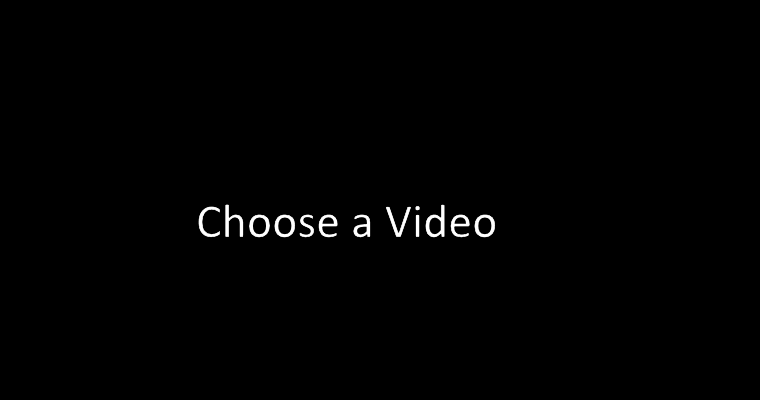
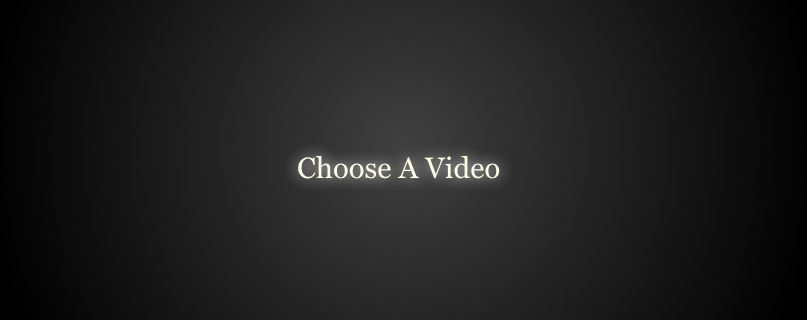
updated main website to have cool flashy thumbnails

diff --git a/index.html b/index.html
@@ -9,6 +9,11 @@
     <!-- install jQuery -->
     <script src="script/mediaPlayer.js"></script>
     <script src="script/Information.js"></script>
+    <script src ="script/SmokingPoster.js"></script>
+    <script src ="script/VladsPoster.js"></script>
+    <script src ="script/ParadisePoster.js"></script>
+    <script src ="script/GetLuckyPoster.js"></script>
+    <script src ="script/JohannaPoster.js"></script>  
     <!-- Linking of Icon file-->
     <link rel="shortcut icon" href="images/icon.ico">
     <!-- script for changing data in the movieinfo section -->
@@ -25,7 +30,6 @@
           <li style = "float:right;"><a href="About.html">About</a></li>
         </ul>
       </div>    
-      
     </div>
       <div id='media-player'>
         <video id='media-video' poster="images/Choose.png" controls>
@@ -43,7 +47,7 @@
             </td>
 -->
           <td>
-            <a href="#TheSmokinRap" onclick='loadVideo("video/TheSmokinRap.mp4");' data-link="second" class="link">
+            <a href="#TheSmokinRap" onclick='loadVideo("video/TheSmokinRap.mp4"); SmokingPoster();' data-link="second" class="link">
             <img src="images/SmokinRapThumb.jpg" >
               <span class="play">
                 <p>
@@ -52,9 +56,9 @@
                 </p>
               </span>    
             </a>
-        </td>
+        </td>  
          <td>
-          <a href="#VladsTour2013" onclick='loadVideo("video/VladsTour2013.mp4");' data-link="third" class="link">
+          <a href="#VladsTour2013" onclick='loadVideo("video/VladsTour2013.mp4"); ValdsTourPoster();' data-link="third" class="link">
           <img src="images/VladsTour2013Thumb.jpg" >
             <span class="play">
               <p>
@@ -65,7 +69,7 @@
           </a>
           </td>
         <td>
-          <a href="#Paradise" onclick='loadVideo("video/Sam.mp4");' data-link="fourth" class="link">
+          <a href="#Paradise" onclick='loadVideo("video/Sam.mp4"); ParadisePoster();' data-link="fourth" class="link">
           <img src="images/ParadiseThumb.png" >
             <span class="play">
               <p>
@@ -74,9 +78,9 @@
               </p> 
             </span>    
           </a>
-          </td>
+          </td> 
         <td>
-          <a href="#GetLucky" onclick='loadVideo("video/GetLucky.mp4");' data-link="fifth" class="link">
+          <a href="#GetLucky" onclick='loadVideo("video/GetLucky.mp4"); GetLuckyPoster();' data-link="fifth" class="link">
           <img src="images/GetLuckyThumb.png" >
             <span class="play">
               <p>
@@ -87,7 +91,7 @@
           </a>
           </td>
         <td>
-          <a href="#Johanna" onclick='loadVideo("video/Johanna.mp4");' data-link="sixth" class="link">
+          <a href="#Johanna" onclick='loadVideo("video/Johanna.mp4"); JohannaPoster();' data-link="sixth" class="link">
           <img src="images/JohannaThumb.png" >
             <span class="play">
               <p>
@@ -176,7 +180,6 @@
         <h2>Johanna</h2>
         <p >A shot for shot remake of the Johanna Sequence from Tim Burtons Sweeney Todd. Made for my friend Joe's anniversary</p>
       </div>
-    </div>
-
+    </div>  
   </body>
 </html>

diff --git a/script/SmokingPoster.js b/script/SmokingPoster.js
@@ -1,0 +1,4 @@
+function SmokingPoster()
+{
+document.getElementById("media-video").poster="images/SmokingRapPoster.png";
+}

diff --git a/script/GetLuckyPoster.js b/script/GetLuckyPoster.js
@@ -1,0 +1,4 @@
+function GetLuckyPoster()
+{
+document.getElementById("media-video").poster="images/GetLuckyPoster.png";
+}

diff --git a/script/ParadisePoster.js b/script/ParadisePoster.js
@@ -1,0 +1,4 @@
+function ParadisePoster()
+{
+document.getElementById("media-video").poster="images/ParadisePoster.png";
+}

diff --git a/script/VladsPoster.js b/script/VladsPoster.js
@@ -1,0 +1,4 @@
+function ValdsTourPoster()
+{
+document.getElementById("media-video").poster="images/SciencePoster.png";
+}

diff --git a/script/JohannaPoster.js b/script/JohannaPoster.js
@@ -1,0 +1,4 @@
+function JohannaPoster()
+{
+document.getElementById("media-video").poster="images/JohannaPoster.png";
+}

diff --git a/script/30SCE.js b/script/30SCE.js
@@ -1,0 +1,4 @@
+function 30SCEPoster()
+{
+document.getElementById("media-video").poster="images/30SCEPoster.png";
+}

diff --git a/script/Posters.js b/script/Posters.js
@@ -1,0 +1,12 @@
+
+
+
+
+
+
+
+
+
+
+
+
